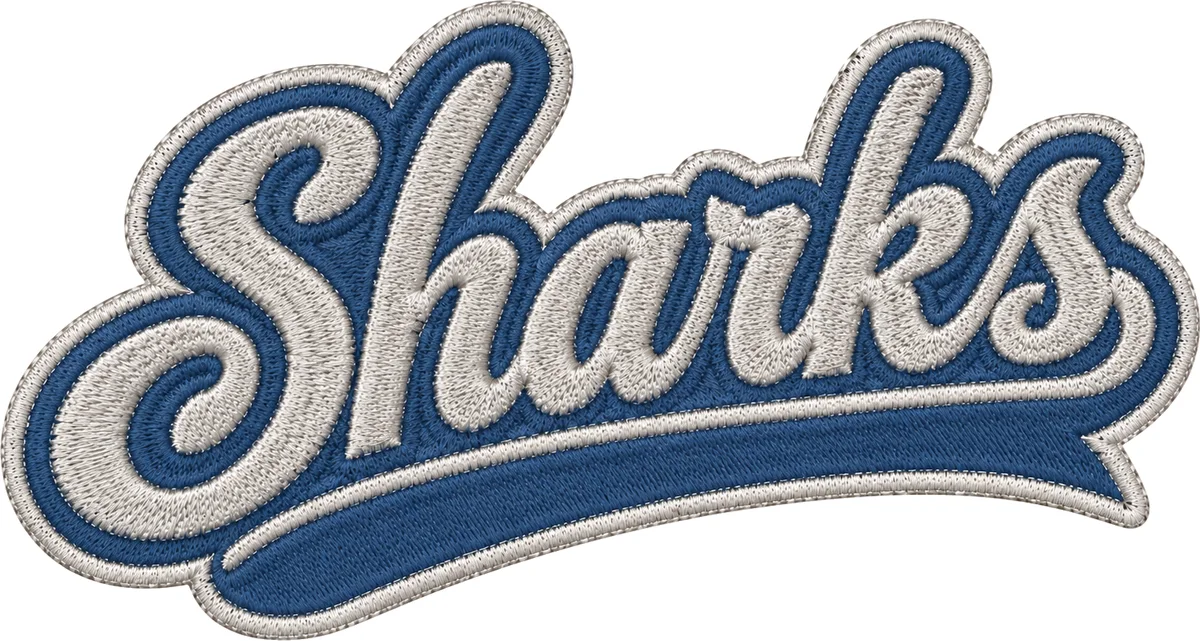
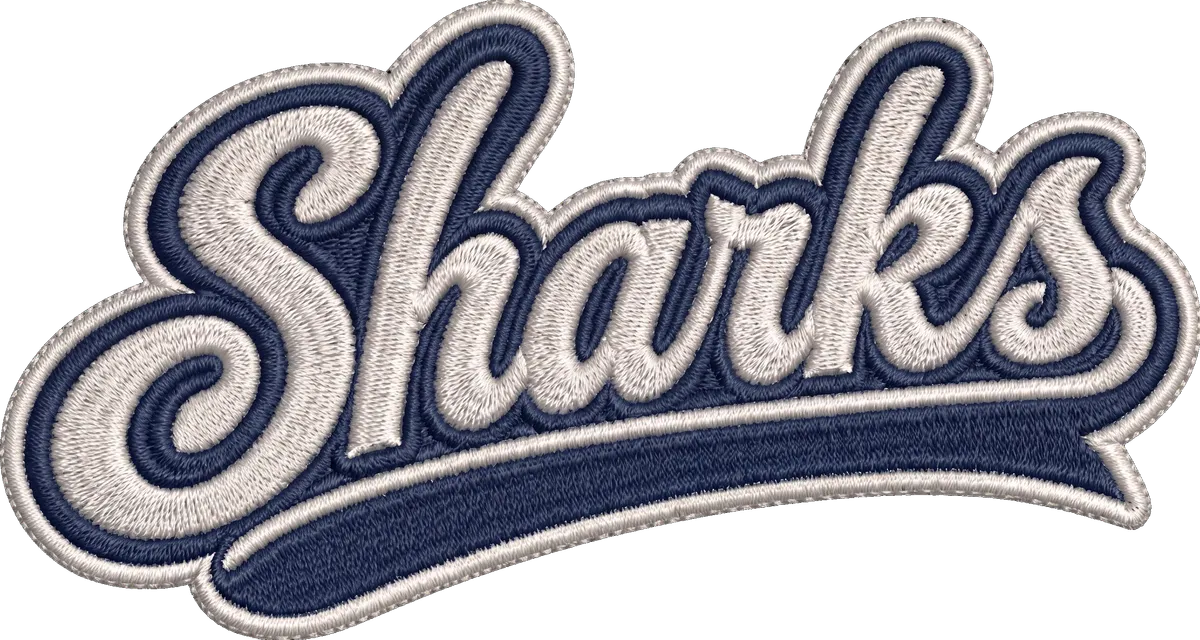
feat(esm-sharks): colour and patch buttons above each item
Adam asked for the navy/silver buttons back, plus two for the
patch. They are wired to the twelve quantity rows rather than
floating on their own: buttons and rows are one piece of
state, so picking Silver + Script moves the highlight onto
the Silver-Script row, and tapping a row moves the buttons.
The buttons are a fast way to look, the highlighted row is
where that look lands, and the box on it is still the only
thing that orders anything.

- Script patch re-rendered in matching navy; all four product
  shots regenerated from the updated sources
- Hat now has script photography, so all TWELVE combinations
  are real and the "photo coming" tile no longer fires. The
  null path stays, so a future un-shot combination still
  cannot borrow a neighbour's picture
- Removes six orphaned images the previous commit left behind:
  its file list named only the new side of each rename, so the
  old filenames were never deleted and shipped as unreferenced
  duplicates. Nothing pointed at them

Pricing is untouched: the 3-for-$20 mix still holds at $20 for
two circle plus one script.

diff --git a/services/website/src/app/esm-sharks/page.tsx b/services/website/src/app/esm-sharks/page.tsx
@@ -35,14 +35,22 @@ import {
  * got stitched would have put two lookalike controls on one card, one cosmetic
  * and one binding. A box per combination has no hidden state at all: what is in
  * the boxes is what gets made, and the item name falls out of the row it came
- * from. The photo is now driven by tapping a row, so the one control that
- * changes the picture is the same one that names the thing.
+ * from.
+ *
+ * The colour buttons are back by Adam's request (2026-09-16), joined by two for
+ * the patch, and the trap above is answered by WIRING them to the rows instead
+ * of leaving them floating: the buttons and the rows are one piece of state
+ * (`syncCard`), so picking "Silver" + "Script" moves the highlight onto the
+ * Silver-Script row. The buttons are a fast way to look; the highlighted row is
+ * where that look lands; the box on it is still the only thing that orders
+ * anything. A control whose effect you can see cannot be the silent kind.
  *
  * Product photography is real (`/images/esm-*.webp`, from `photos/source/`) and
  * named for its patch: `esm-tote-navy-circle.webp`, `esm-tote-navy-script.webp`.
- * The hat has no script shot yet — those rows say so rather than showing the
- * circle photo under a script label. Drop `esm-hat-navy-script.webp` and
- * `esm-hat-silver-script.webp` in and set `img` on those two rows below.
+ * All TWELVE combinations are shot as of 2026-09-16, so the picker can show any
+ * of them. `shots` still allows a null and the card still renders an honest
+ * "photo coming" tile for one — that path is what stops a future un-shot
+ * combination illustrating itself with a neighbour's picture.
  *
  * Loose patches are still sold on their own, and their 3-for-$20 tier MIXES
  * across designs. That arithmetic lives in `lib/fundraiserPatches.ts`, where it
@@ -76,9 +84,9 @@ const PRODUCTS = [
     blurb: 'Classic mesh-back snapback with your patch stitched on the front panel.',
     shots: {
       'navy-circle': '/images/esm-hat-navy-circle.webp',
-      'navy-script': null,
+      'navy-script': '/images/esm-hat-navy-script.webp',
       'silver-circle': '/images/esm-hat-silver-circle.webp',
-      'silver-script': null,
+      'silver-script': '/images/esm-hat-silver-script.webp',
     },
   },
   {
@@ -162,28 +170,53 @@ export default function ESMSharksPage() {
     }
 
     /**
-     * Tapping a variant row shows that combination's photo.
+     * Which combination each card is currently SHOWING.
      *
-     * The row is both the preview control and the thing being ordered, so there
-     * is no second control that could disagree with the boxes. Where we have no
-     * photo (`data-src` empty) the hero shows a labelled placeholder rather than
-     * the nearest picture we do have — a script row must never illustrate itself
-     * with the circle patch.
+     * The colour and patch buttons and the twelve rows are two views of one
+     * piece of state, held on the card as `data-color` / `data-patch`. Whichever
+     * you touch, `syncCard` redraws both, so the buttons can never point at one
+     * combination while a different row looks selected.
+     *
+     * This is a PREVIEW, not the order — the quantity boxes are still the only
+     * thing that decides what gets made. That is why the highlighted row moves
+     * with the buttons: it shows you which of the twelve boxes the picture on
+     * screen belongs to, instead of leaving the buttons as a control whose
+     * effect you cannot locate.
      */
-    function showVariant(btn: HTMLElement) {
-      const key = btn.getAttribute('data-product')
-      if (!key) return
+    const ACTIVE = {
+      navy: ['border-esmNavy', 'bg-esmNavy', 'text-white'],
+      silver: ['border-esmSilver', 'bg-esmSilver', 'text-esmInk'],
+      // Both patches are navy thread now, so a filled navy button would swallow
+      // the thumbnail inside it. A light fill with a navy border reads as
+      // "chosen" and keeps the artwork legible.
+      patch: ['border-esmNavy', 'bg-esmMist', 'text-esmNavy'],
+    }
+    const IDLE = ['border-gray-200', 'bg-white', 'text-gray-500']
+    const ALL_ACTIVE = [...ACTIVE.navy, ...ACTIVE.silver, ...ACTIVE.patch]
+
+    function syncCard(key: string) {
+      const card = document.getElementById(`card-${key}`)
+      if (!card) return
+      const color = card.dataset.color || 'navy'
+      const patch = card.dataset.patch || 'circle'
+
+      // The row for this combination is the source of truth for the photo: it
+      // carries the one `data-src` we shot for it.
+      const row = document.querySelector(
+        `.variant-preview[data-product="${key}"][data-color="${color}"][data-patch="${patch}"]`,
+      ) as HTMLElement | null
+      if (!row) return
+
       const img = document.getElementById(`img-${key}`) as HTMLImageElement | null
       const ph = document.getElementById(`ph-${key}`)
-      const src = btn.getAttribute('data-src') || ''
-
+      const src = row.getAttribute('data-src') || ''
       if (img && ph) {
         // `hidden` and `flex` are both display utilities of equal specificity,
         // so which one wins is decided by their order in the generated stylesheet.
         // Toggling both explicitly keeps that out of it.
         if (src) {
           img.src = src
-          img.alt = btn.getAttribute('data-combo') || ''
+          img.alt = row.getAttribute('data-combo') || ''
           img.classList.remove('hidden')
           ph.classList.add('hidden')
           ph.classList.remove('flex')
@@ -192,29 +225,66 @@ export default function ESMSharksPage() {
           ph.classList.remove('hidden')
           ph.classList.add('flex')
           const art = ph.querySelector('img') as HTMLImageElement | null
-          if (art) art.src = btn.getAttribute('data-patch-art') || ''
+          if (art) art.src = row.getAttribute('data-patch-art') || ''
           const cap = ph.querySelector('[data-cap]')
-          if (cap) cap.textContent = btn.getAttribute('data-combo') || ''
+          if (cap) cap.textContent = row.getAttribute('data-combo') || ''
         }
       }
 
-      document.querySelectorAll(`.variant-row[data-product="${key}"]`).forEach((row) => {
-        row.classList.remove('ring-2', 'ring-esmNavy', 'bg-esmMist/70')
-        row.classList.add('bg-slate-50')
+      document.querySelectorAll(`.variant-row[data-product="${key}"]`).forEach((r) => {
+        r.classList.remove('ring-2', 'ring-esmNavy', 'bg-esmMist/70')
+        r.classList.add('bg-slate-50')
       })
-      const row = btn.closest('.variant-row')
-      if (row) { row.classList.remove('bg-slate-50'); row.classList.add('ring-2', 'ring-esmNavy', 'bg-esmMist/70') }
+      const rowEl = row.closest('.variant-row')
+      if (rowEl) { rowEl.classList.remove('bg-slate-50'); rowEl.classList.add('ring-2', 'ring-esmNavy', 'bg-esmMist/70') }
+
+      document.querySelectorAll(`.combo-btn[data-product="${key}"]`).forEach((b) => {
+        const btn = b as HTMLElement
+        const axis = btn.dataset.axis as 'color' | 'patch'
+        const on = axis === 'color' ? btn.dataset.value === color : btn.dataset.value === patch
+        btn.classList.remove(...ALL_ACTIVE, ...IDLE)
+        if (!on) { btn.classList.add(...IDLE); return }
+        btn.classList.add(...(axis === 'patch' ? ACTIVE.patch : ACTIVE[btn.dataset.value as 'navy' | 'silver']))
+      })
     }
 
-    function setupVariantPreview() {
-      document.querySelectorAll('.variant-preview').forEach((btn) => {
-        btn.addEventListener('click', () => showVariant(btn as HTMLElement))
+    /** Point a card at one combination, from a button or from a row. */
+    function pickCombo(key: string, axis: string, value: string) {
+      const card = document.getElementById(`card-${key}`)
+      if (!card) return
+      if (axis === 'color') card.dataset.color = value
+      else card.dataset.patch = value
+      syncCard(key)
+    }
+
+    function setupComboControls() {
+      // The buttons carry an <img>, so a click can land on the child — read the
+      // listener's own element rather than the event target.
+      document.querySelectorAll('.combo-btn').forEach((b) => {
+        const btn = b as HTMLElement
+        btn.addEventListener('click', () =>
+          pickCombo(btn.dataset.product || '', btn.dataset.axis || '', btn.dataset.value || ''))
+      })
+      document.querySelectorAll('.variant-preview').forEach((r) => {
+        const row = r as HTMLElement
+        row.addEventListener('click', () => {
+          const card = document.getElementById(`card-${row.dataset.product}`)
+          if (!card) return
+          card.dataset.color = row.dataset.color || 'navy'
+          card.dataset.patch = row.dataset.patch || 'circle'
+          syncCard(row.dataset.product || '')
+        })
       })
     }
 
-    /** Restore each card to its first row — used on load and after a reset. */
-    function resetVariantPreviews() {
-      document.querySelectorAll('.variant-preview[data-first="1"]').forEach((btn) => showVariant(btn as HTMLElement))
+    /** Point every card back at navy + circle — on load and after a reset. */
+    function resetCombos() {
+      document.querySelectorAll('[id^="card-"]').forEach((c) => {
+        const card = c as HTMLElement
+        card.dataset.color = 'navy'
+        card.dataset.patch = 'circle'
+        syncCard(card.id.replace(/^card-/, ''))
+      })
     }
 
     // --- Payment radios ---
@@ -490,7 +560,7 @@ export default function ESMSharksPage() {
         if (addrField) addrField.required = false
         // Same reason: the highlighted row and the hero photo are classes and
         // `src`, neither of which `form.reset()` knows about.
-        resetVariantPreviews()
+        resetCombos()
         calculateTotal()
         finalSubmitBtn.innerHTML = 'CONFIRM & SUBMIT'
         finalSubmitBtn.disabled = false
@@ -498,11 +568,11 @@ export default function ESMSharksPage() {
     }
 
     setupQuantityButtons()
-    setupVariantPreview()
+    setupComboControls()
     setupPaymentRadios()
     setupDeliveryRadios()
     setupFormSubmit()
-    resetVariantPreviews()
+    resetCombos()
     calculateTotal()
   }, [])
 
@@ -515,7 +585,10 @@ export default function ESMSharksPage() {
         #esm-sharks-root input[type="number"] { -moz-appearance:textfield }
         .varsity-outline { -webkit-text-stroke:1px #0C2340;text-shadow:3px 3px 0px rgba(12,35,64,0.45) }
         .loader { border:3px solid #E6E9EC;border-top:3px solid #0C2340;border-radius:50%;width:20px;height:20px;animation:spin 1s linear infinite;display:inline-block }
-        @keyframes spin { 0%{transform:rotate(0deg)} 100%{transform:rotate(360deg)} }` }} />
+        @keyframes spin { 0%{transform:rotate(0deg)} 100%{transform:rotate(360deg)} }
+        /* Only the UNCHOSEN buttons get a hover cue — an active one is already
+           filled, and re-colouring it on hover reads as a state change. */
+        .combo-btn.bg-white:hover { border-color:#0C2340 !important; color:#0C2340 !important; }` }} />
       <link rel="preconnect" href="https://fonts.googleapis.com" />
       <link rel="preconnect" href="https://fonts.gstatic.com" crossOrigin="anonymous" />
       <link href="https://fonts.googleapis.com/css2?family=Oswald:wght@400;700&family=Bebas+Neue&family=Inter:wght@400;500;600;700&display=swap" rel="stylesheet" />
@@ -573,7 +646,58 @@ export default function ESMSharksPage() {
                 {PRODUCTS.map((product) => {
                   const variants = variantsOf(product)
                   return (
-                    <div key={product.key} className="bg-white rounded-xl border border-gray-200 p-4 shadow-sm hover:shadow-xl transition-all duration-300 flex flex-col h-full">
+                    <div
+                      key={product.key}
+                      id={`card-${product.key}`}
+                      data-color="navy"
+                      data-patch="circle"
+                      className="bg-white rounded-xl border border-gray-200 p-4 shadow-sm hover:shadow-xl transition-all duration-300 flex flex-col h-full"
+                    >
+                      {/*
+                        Two axes of two. These SHOW a combination; they do not
+                        order one. Picking here moves the highlight onto the
+                        matching row below, so the effect of the button is always
+                        visible on the box that actually decides.
+                      */}
+                      <div className="space-y-2 mb-3">
+                        <div className="flex gap-2">
+                          {COLORS.map((c) => (
+                            <button
+                              key={c.key}
+                              type="button"
+                              className={`combo-btn flex-1 py-1.5 border-2 text-xs font-bold uppercase rounded-md transition-colors ${
+                                c.key === 'navy'
+                                  ? 'border-esmNavy bg-esmNavy text-white'
+                                  : 'border-gray-200 bg-white text-gray-500'
+                              }`}
+                              data-product={product.key}
+                              data-axis="color"
+                              data-value={c.key}
+                            >
+                              {c.label}
+                            </button>
+                          ))}
+                        </div>
+                        <div className="flex gap-2">
+                          {PATCHES.map((p) => (
+                            <button
+                              key={p.key}
+                              type="button"
+                              className={`combo-btn flex-1 py-1.5 border-2 text-xs font-bold uppercase rounded-md transition-colors flex items-center justify-center gap-1.5 ${
+                                p.key === 'circle'
+                                  ? 'border-esmNavy bg-esmMist text-esmNavy'
+                                  : 'border-gray-200 bg-white text-gray-500'
+                              }`}
+                              data-product={product.key}
+                              data-axis="patch"
+                              data-value={p.key}
+                            >
+                              <img src={p.art} alt="" className="w-4 h-4 object-contain pointer-events-none" />
+                              {p.label}
+                            </button>
+                          ))}
+                        </div>
+                      </div>
                       <div className="w-full aspect-square bg-slate-100 rounded-lg mb-4 overflow-hidden relative">
                         <img id={`img-${product.key}`} src={variants[0].img || ''} alt={variants[0].name} className="w-full h-full object-cover" />
                         {/*
@@ -598,7 +722,7 @@ export default function ESMSharksPage() {
                       <div className="mt-auto pt-4 border-t border-gray-100">
                         <p className="text-[10px] font-bold uppercase tracking-widest text-gray-400 mb-2">Pick your colour and patch</p>
                         <div className="space-y-2">
-                          {variants.map((v, i) => (
+                          {variants.map((v) => (
                             <div
                               key={v.id}
                               className="variant-row flex items-center gap-2 bg-slate-50 rounded-lg p-1.5 transition-all"
@@ -613,10 +737,11 @@ export default function ESMSharksPage() {
                                 type="button"
                                 className="variant-preview flex items-center gap-2 flex-1 min-w-0 text-left"
                                 data-product={product.key}
+                                data-color={v.color.key}
+                                data-patch={v.patch.key}
                                 data-src={v.img || ''}
                                 data-patch-art={v.patch.art}
                                 data-combo={v.name}
-                                data-first={i === 0 ? '1' : undefined}
                                 title={`Show ${v.name}`}
                               >
                                 <span className="w-3 h-3 rounded-full flex-none border border-black/20" style={{ background: v.color.swatch }}></span>
